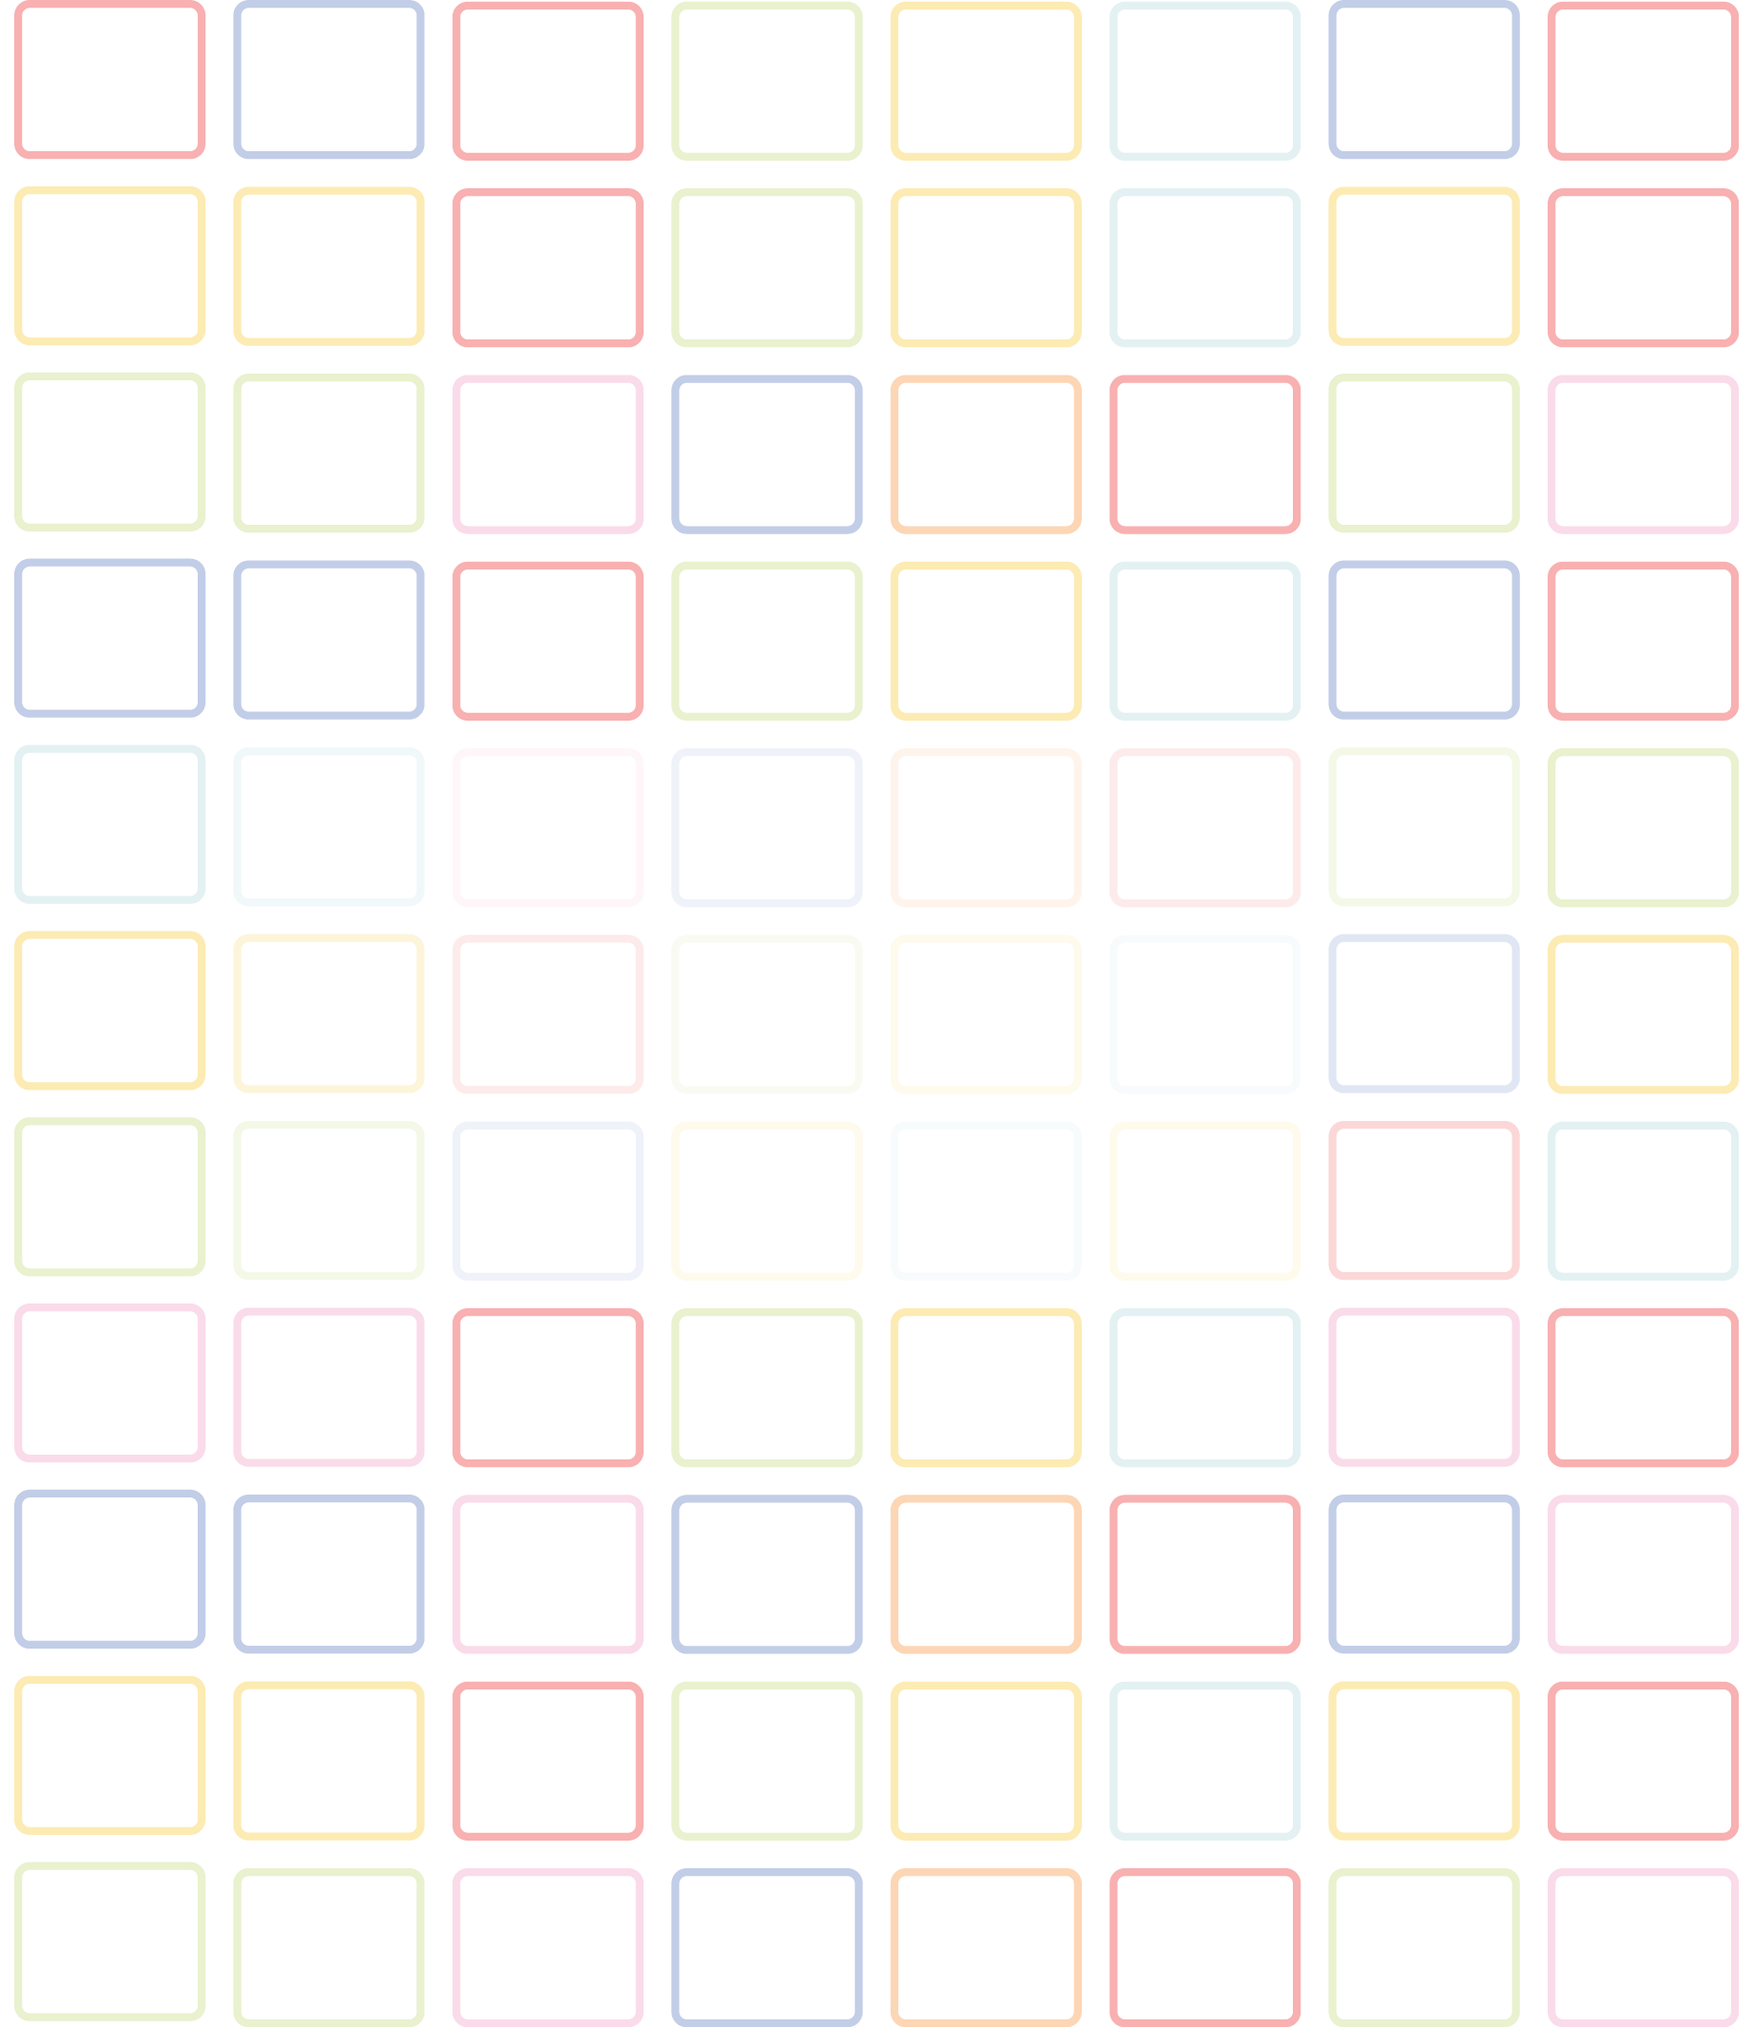
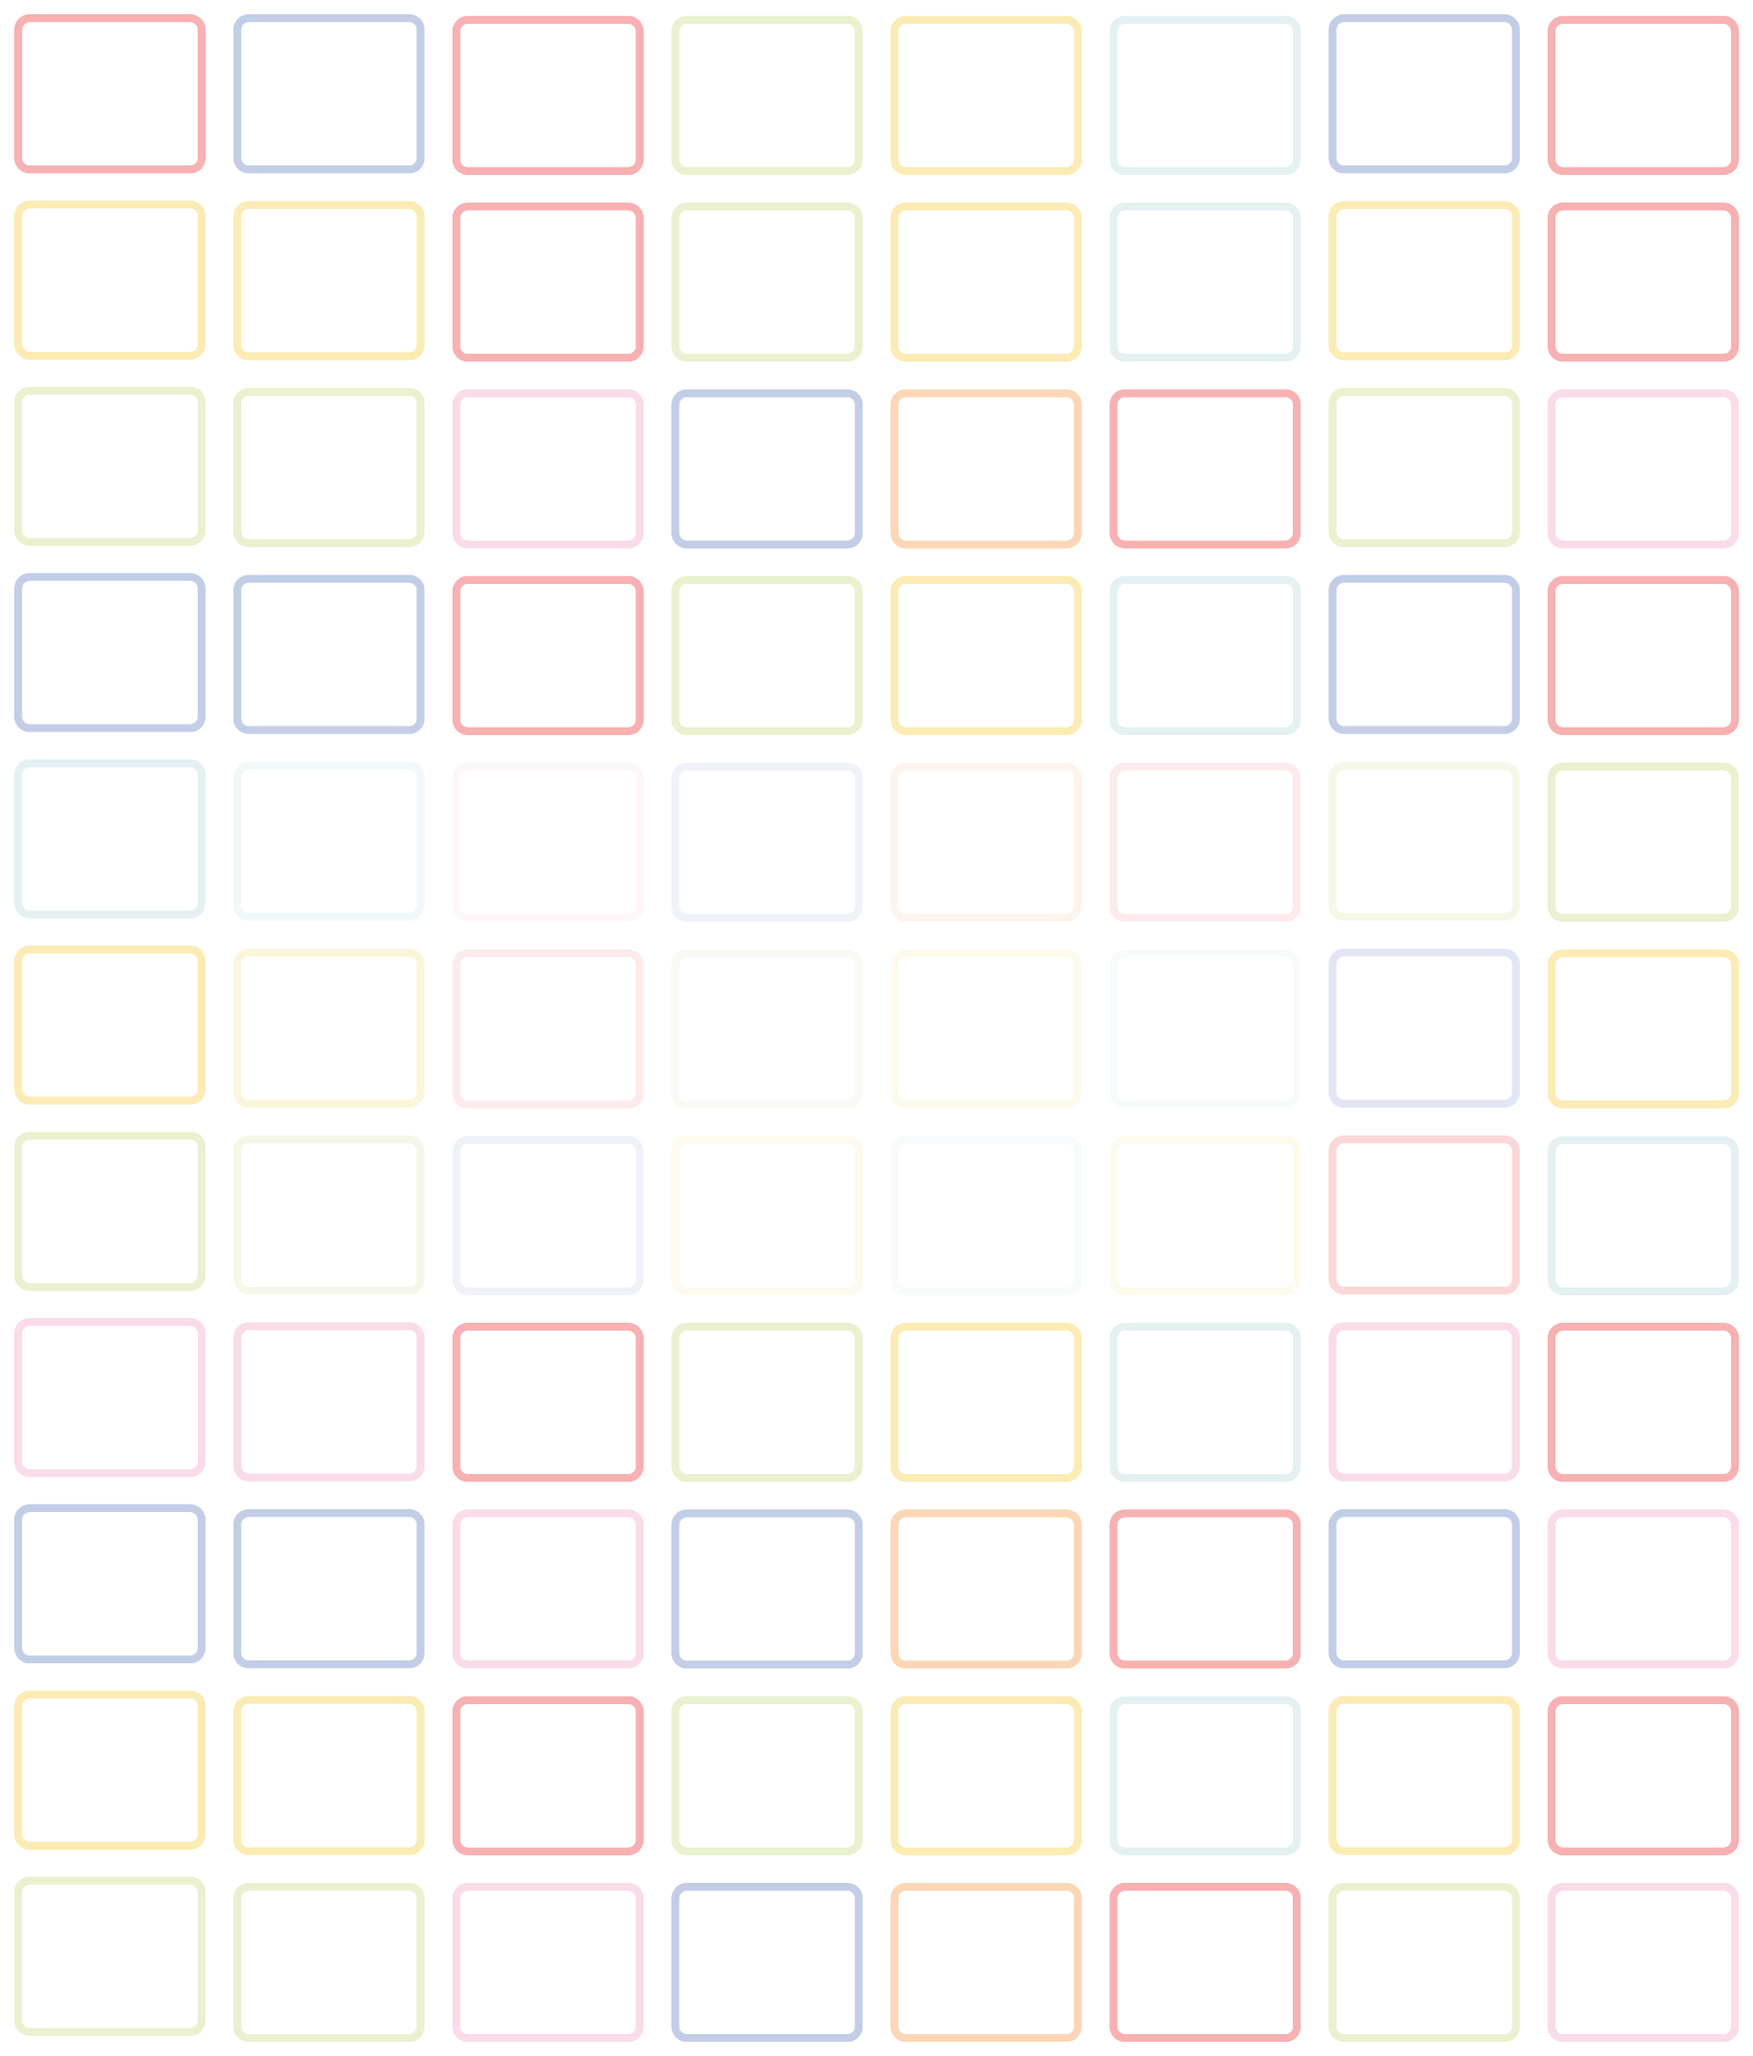
tiles repeat vertically too on desktop

diff --git a/style.css b/style.css
@@ -145,15 +145,15 @@ main {
 	and (min-width: 1060px) {
 
 		#box {
-			padding: 1vh 1vw;
+			padding: 2vh 1vw 1vh;
 		}
 
 		header {
 			display: inline-block;
-			width: 48%;
+			width: 49%;
 			height: 90vh;
-			background: url('src/img/tiles.png') center center repeat-x;
-			background-size: 530px auto;
+			background: url('src/img/tiles.png') center center repeat;
+			background-size: 537px auto;
 			vertical-align: middle;
 		}
 
